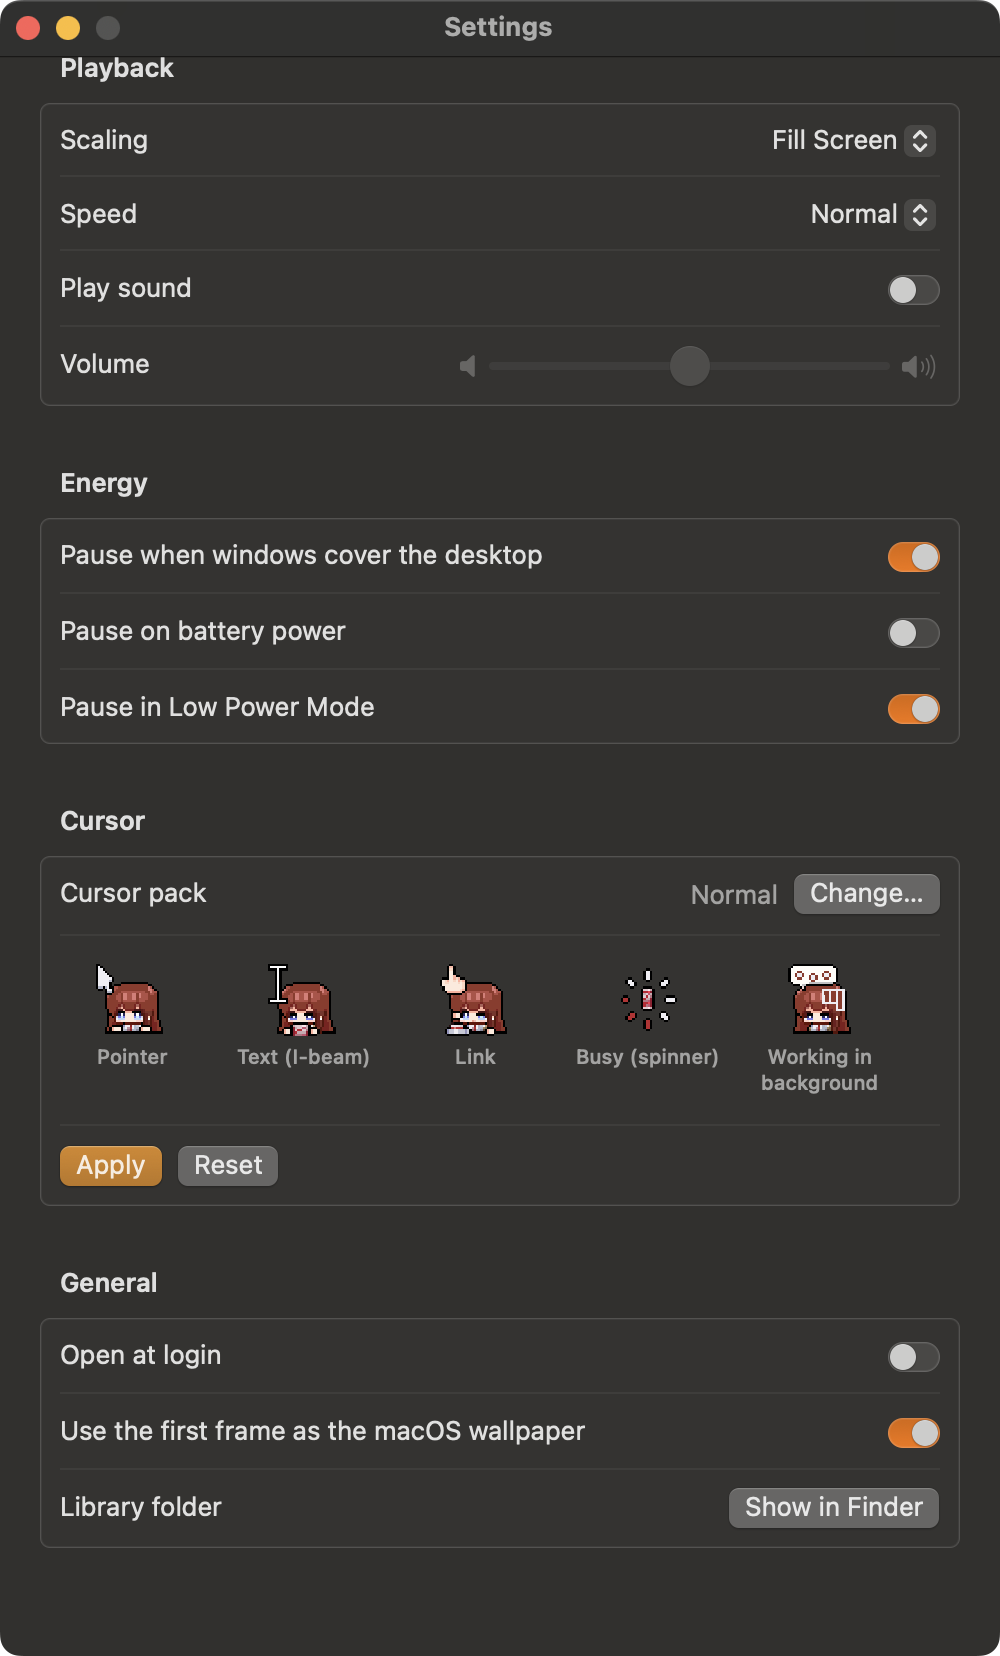
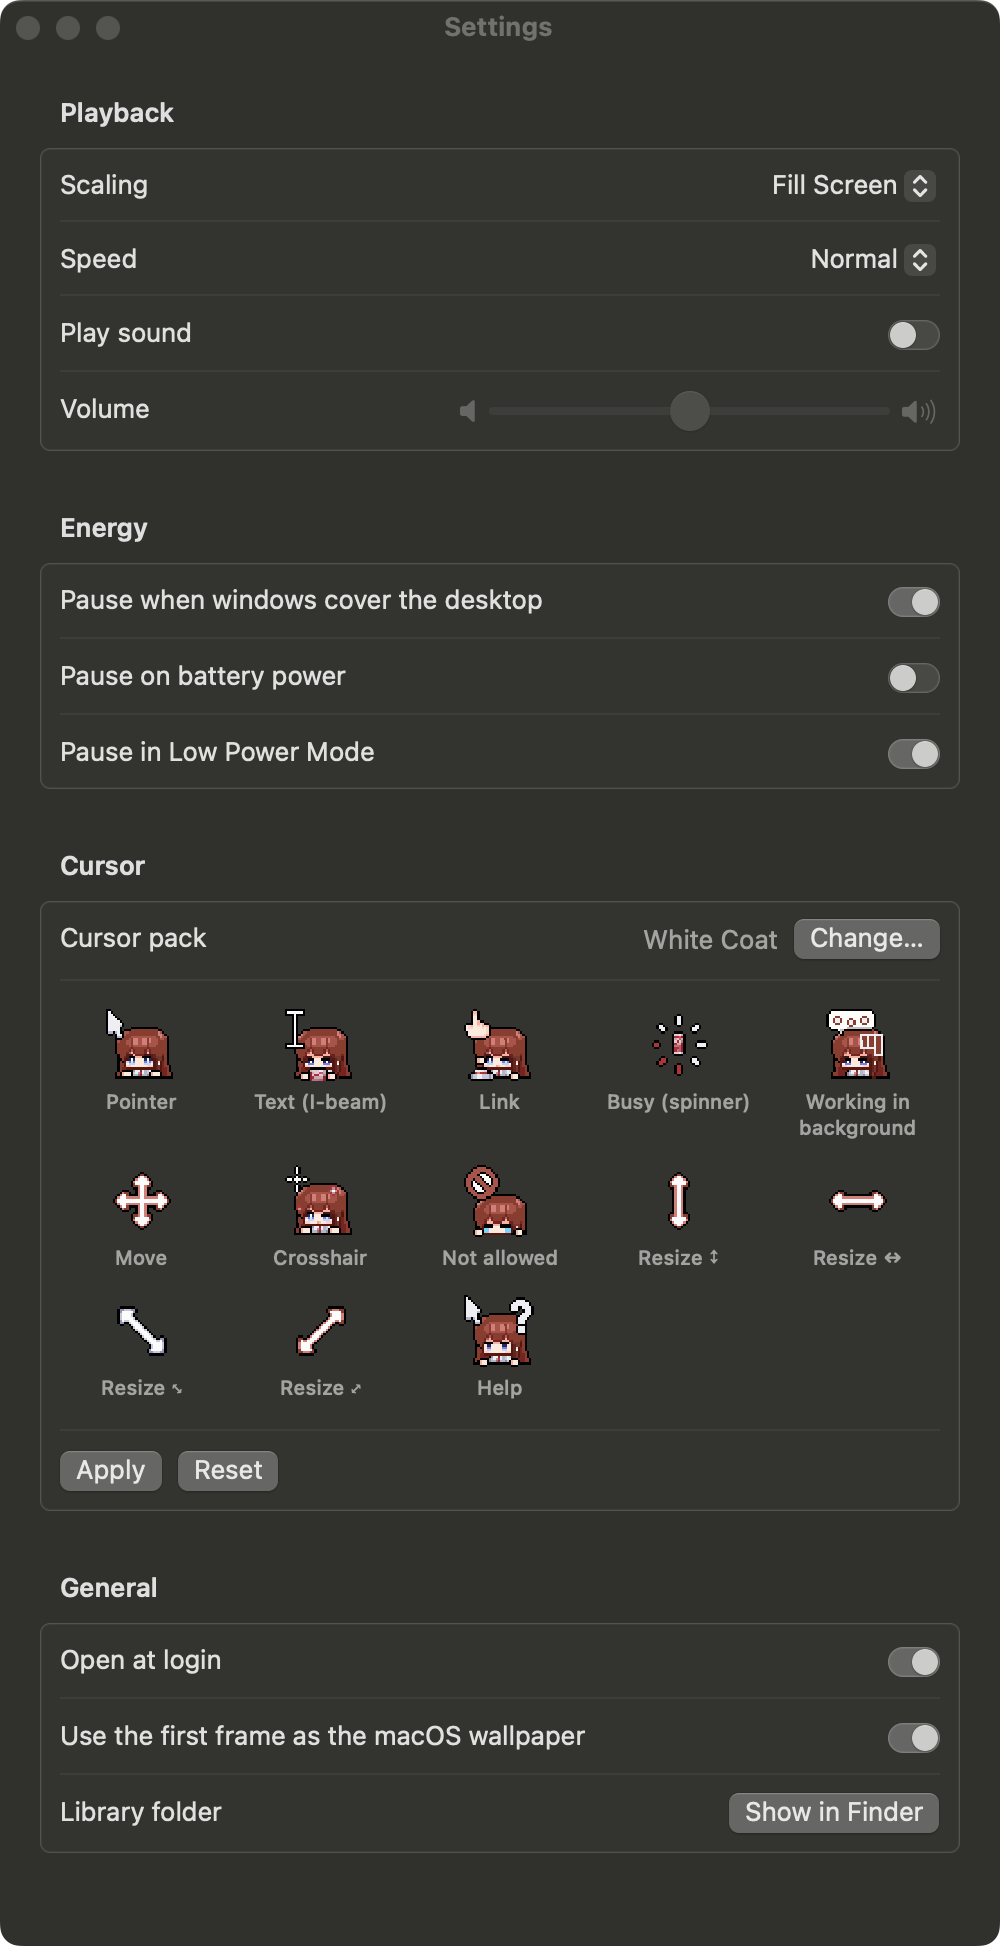
Show the cursor previews as a grid
The previews sat in a horizontal strip, which only a trackpad can
scroll: a mouse wheel moves up and down, so cursors past the edge
could not be reached. They now wrap into rows and are all visible.
Screenshots retaken.

diff --git a/Sources/WallAeroEngine/UI/CursorSettingsView.swift b/Sources/WallAeroEngine/UI/CursorSettingsView.swift
@@ -92,23 +92,23 @@ struct CursorSettingsSection: View {
             }
 
             if !cursor.previews.isEmpty {
-                ScrollView(.horizontal, showsIndicators: false) {
-                    HStack(alignment: .top, spacing: 14) {
-                        ForEach(cursor.previews) { item in
-                            VStack(spacing: 4) {
-                                AnimatedCursorImage(frames: item.frames, durations: item.durations)
-                                    .frame(width: 36, height: 36)
-                                Text(item.name)
-                                    .font(.caption2)
-                                    .foregroundStyle(.secondary)
-                                    .multilineTextAlignment(.center)
-                                    .lineLimit(2)
-                                    .frame(width: 72)
-                            }
+                // A grid that wraps, not a horizontal strip: a mouse wheel scrolls only up and
+                // down, so cursors past the edge of a strip could not be reached with a mouse.
+                LazyVGrid(columns: [GridItem(.adaptive(minimum: 76), spacing: 8, alignment: .top)], spacing: 12) {
+                    ForEach(cursor.previews) { item in
+                        VStack(spacing: 4) {
+                            AnimatedCursorImage(frames: item.frames, durations: item.durations)
+                                .frame(width: 36, height: 36)
+                            Text(item.name)
+                                .font(.caption2)
+                                .foregroundStyle(.secondary)
+                                .multilineTextAlignment(.center)
+                                .lineLimit(2)
+                                .frame(maxWidth: .infinity)
                         }
                     }
-                    .padding(.vertical, 4)
                 }
+                .padding(.vertical, 4)
 
                 HStack {
                     Button("Apply", action: cursor.apply)

diff --git a/Sources/WallAeroEngine/ScreenshotMode.swift b/Sources/WallAeroEngine/ScreenshotMode.swift
@@ -37,7 +37,7 @@ enum ScreenshotMode {
             .environmentObject(manager)
             .environmentObject(importer)
         // Tall enough to show every section without scrolling.
-        let settingsHeight: CGFloat = 800
+        let settingsHeight: CGFloat = 945
         let settingsView = SettingsView(height: settingsHeight)
             .environmentObject(preferences)
             .environmentObject(library)
